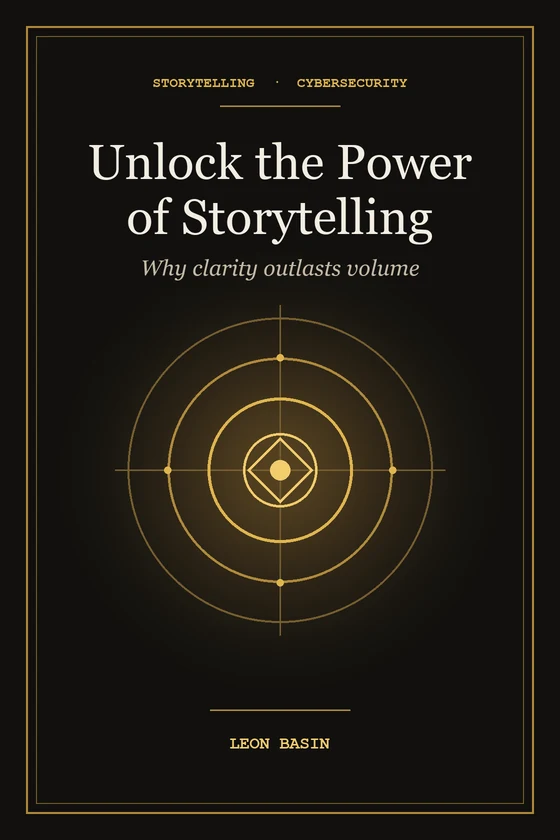
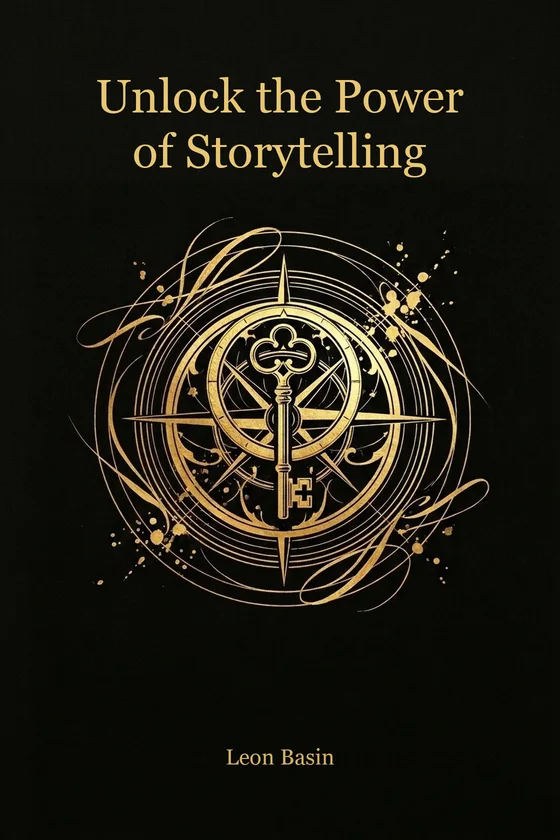
feat(blog): upgrade Storytelling book cover with matching luminous gold medallion
- Replace dim geometric ring cover with a high-contrast antique-gold architectural key and signal compass medallion on matte obsidian linen matching the Sam & Ink lion cover at 92px card scale
- Bust cache on blog/index.html book cover sources and update performance budget (57 KB WebP)

Changed region(s): [[0.1518, 0.0929, 0.8804, 0.7429], [0.0304, 0.031, 0.9714, 0.9905], [0.3946, 0.8357, 0.6071, 0.9286]]

diff --git a/blog/index.html b/blog/index.html
@@ -89,6 +89,6 @@
                         </ol>
                     </article>
                 </div></section>
-<section class="hub-books" id="books"><h2>Books</h2><div class="book-rows"><a class="book-card" href="https://www.amazon.com/dp/B0CB9PWL5X" target="_blank" rel="noopener noreferrer"><picture class="book-cover"><source srcset="/assets/img/fiction/sam-and-ink-book-cover.webp" type="image/webp"><img src="/assets/img/fiction/sam-and-ink-book-cover.jpg" alt="Sam and Ink book cover with gold-ink lion emblem on dark linen" width="498" height="747" loading="lazy" decoding="async"></picture><div class="book-copy"><span class="book-kicker">Sam &amp; Ink</span><h3>What Are We?</h3><span class="book-cta">Read on Amazon ↗</span></div></a><a class="book-card" href="https://www.amazon.com/dp/B0DCNMS9V1" target="_blank" rel="noopener noreferrer"><picture class="book-cover"><source srcset="/assets/img/articles/unlock-storytelling-book-cover.webp" type="image/webp"><img src="/assets/img/articles/unlock-storytelling-book-cover.jpg" alt="Unlock the Power of Storytelling book cover with gold concentric signal rings" width="560" height="840" loading="lazy" decoding="async"></picture><div class="book-copy"><span class="book-kicker">Storytelling &amp; cybersecurity</span><h3>Unlock the Power of Storytelling</h3><span class="book-cta">Read on Amazon ↗</span></div></a></div><p class="quiet-links"><span class="quiet-links__label">Also in the studio</span><a href="/plays/">Plays</a><a href="/blog/fiction/">Fiction</a><a href="/blueprint/">The Basin Blueprint</a></p></section>
+<section class="hub-books" id="books"><h2>Books</h2><div class="book-rows"><a class="book-card" href="https://www.amazon.com/dp/B0CB9PWL5X" target="_blank" rel="noopener noreferrer"><picture class="book-cover"><source srcset="/assets/img/fiction/sam-and-ink-book-cover.webp" type="image/webp"><img src="/assets/img/fiction/sam-and-ink-book-cover.jpg" alt="Sam and Ink book cover with gold-ink lion emblem on dark linen" width="498" height="747" loading="lazy" decoding="async"></picture><div class="book-copy"><span class="book-kicker">Sam &amp; Ink</span><h3>What Are We?</h3><span class="book-cta">Read on Amazon ↗</span></div></a><a class="book-card" href="https://www.amazon.com/dp/B0DCNMS9V1" target="_blank" rel="noopener noreferrer"><picture class="book-cover"><source srcset="/assets/img/articles/unlock-storytelling-book-cover.webp?v=20261121-medallion" type="image/webp"><img src="/assets/img/articles/unlock-storytelling-book-cover.jpg?v=20261121-medallion" alt="Unlock the Power of Storytelling book cover with gold architectural key and signal compass medallion on dark linen" width="560" height="840" loading="lazy" decoding="async"></picture><div class="book-copy"><span class="book-kicker">Storytelling &amp; cybersecurity</span><h3>Unlock the Power of Storytelling</h3><span class="book-cta">Read on Amazon ↗</span></div></a></div><p class="quiet-links"><span class="quiet-links__label">Also in the studio</span><a href="/plays/">Plays</a><a href="/blog/fiction/">Fiction</a><a href="/blueprint/">The Basin Blueprint</a></p></section>
 <section class="dispatch-section"><h2>The Dispatch</h2><p>New essays and occasional stories.</p><a href="https://basinandassociates.substack.com/subscribe?utm_source=basinleon.github.io&amp;utm_medium=owned&amp;utm_campaign=blog-dispatch" target="_blank" rel="noopener noreferrer">Subscribe →</a></section></main><footer class="lb-site-footer" aria-label="Site footer"><div class="lb-footer-inner"><a class="lb-site-name" href="/" aria-label="Leon Basin home">LEON BASIN.</a><nav class="lb-footer-nav" aria-label="Footer"><a href="/case-studies/">Work</a><a href="/resume.html">Résumé</a><a href="/basin-nexus/">Nexus</a><a href="/tools/">Tools</a><a href="/answers/">Q&amp;A</a><a href="/blog/">Writing</a><a href="/blog/fiction/">Fiction</a><a href="/work-with-me/">Contact</a><a href="/privacy/">Privacy</a></nav><p class="lb-footer-meta">© 2026 Leon Basin · San Francisco Bay Area</p></div></footer>
 <script src="/blog/js/catalog.js?v=20261121-muse" defer></script><script src="/assets/js/insights.js?v=20261120-editorial" defer></script><script src="/blog/js/hub-share.js?v=20261120-editorial" defer></script><script src="/blog/js/fragment-arrival.js?v=20261121-muse" defer></script><script src="/blog/js/reading-preferences.js?v=20261120-editorial" defer></script><script src="/assets/js/continuity.js?v=20261120-editorial" defer></script></body></html>

diff --git a/scripts/check-performance-budget.py b/scripts/check-performance-budget.py
@@ -47,7 +47,7 @@ FILE_BUDGETS = {
     "assets/img/articles/the-machine-described-me-back-to-myself.webp": 100_000,
     "assets/img/articles/the-machine-described-me-back-to-myself-800.webp": 45_000,
     "assets/img/articles/the-machine-described-me-back-to-myself-og.jpg": 120_000,
-    "assets/img/articles/unlock-storytelling-book-cover.webp": 40_000,
+    "assets/img/articles/unlock-storytelling-book-cover.webp": 90_000,
     "assets/img/fiction/ink-at-the-desk.webp": 160_000,
     "assets/img/fiction/ink-at-the-desk-720.webp": 80_000,
     "assets/img/fiction/sam-and-ink-book-cover.webp": 100_000,
